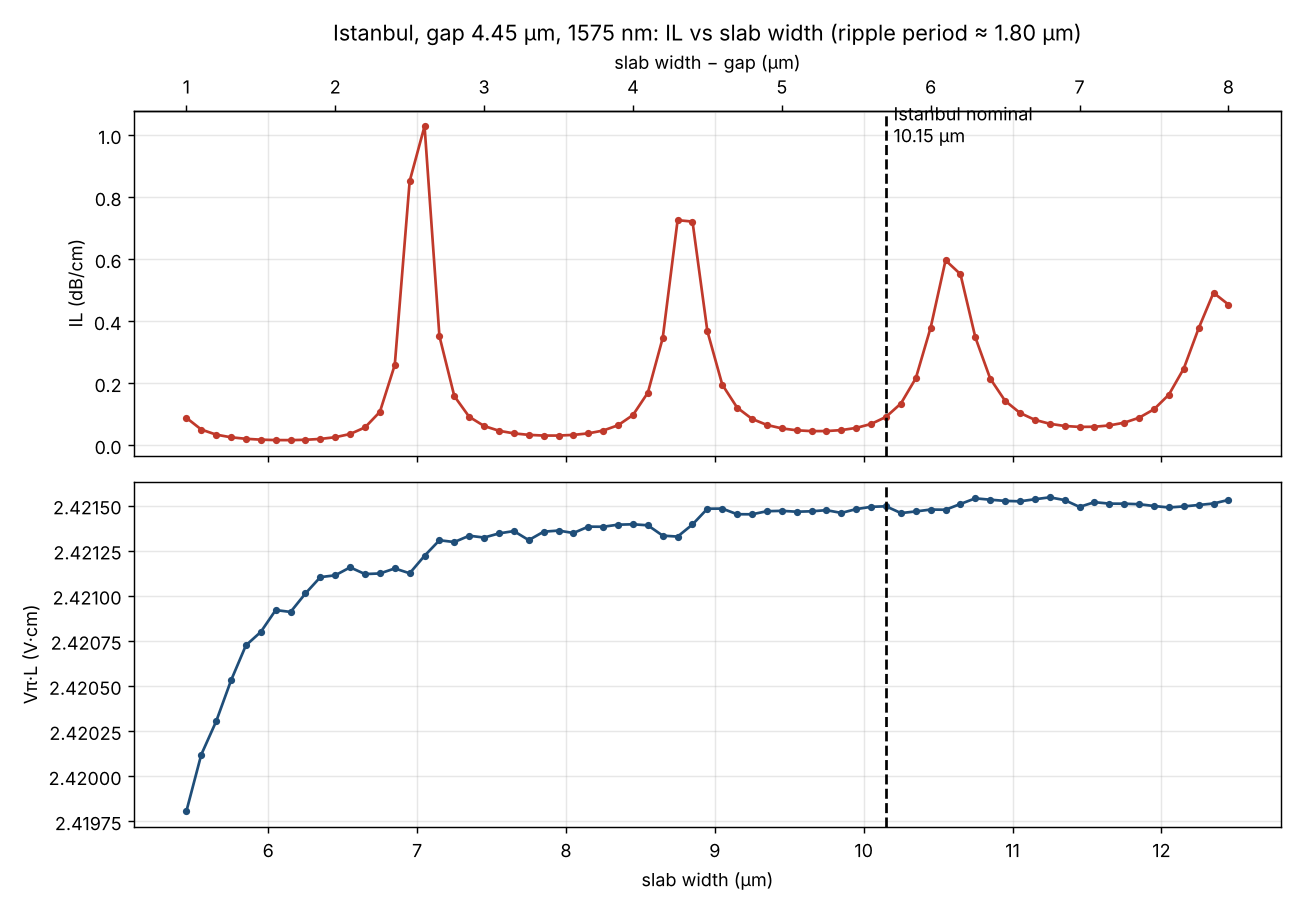
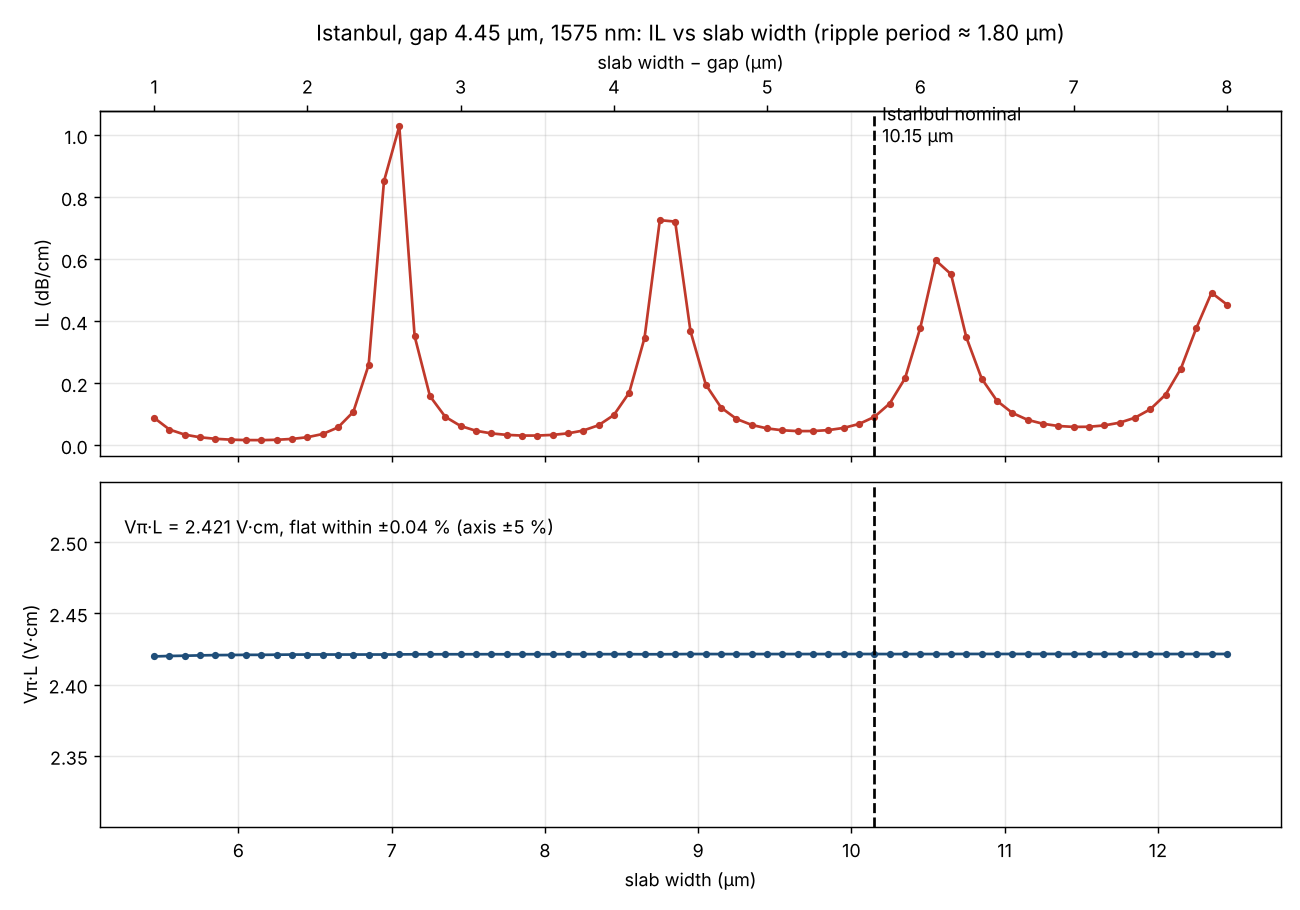
Istanbul plot: Vpi*L on a +/-5% axis
Claude-Session: https://claude.ai/code/session_01EHQDy7yrZwCZyHELu6KFb3

diff --git a/results/istanbul/analysis.py b/results/istanbul/analysis.py
@@ -11,7 +11,7 @@ F = np.abs(np.fft.rfft(d, 1024)); fr = np.fft.rfftfreq(1024, 0.1); P = 1 / fr[1:
 fig, (a, b) = plt.subplots(2, 1, figsize=(10, 7), sharex=True)
 a.plot(w, il, "o-", ms=3, c="#c0392b"); a.axvline(10.15, c="k", ls="--"); a.text(10.2, il.max()*0.95, "Istanbul nominal\n10.15 µm")
 a.set_ylabel("IL (dB/cm)"); a.set_title(f"Istanbul, gap 4.45 µm, 1575 nm: IL vs slab width (ripple period ≈ {P:.2f} µm)"); a.grid(alpha=.3)
-b.plot(w, v, "o-", ms=3, c="#1f4e79"); b.axvline(10.15, c="k", ls="--"); b.set_ylabel("Vπ·L (V·cm)"); b.set_xlabel("slab width (µm)"); b.grid(alpha=.3)
+b.plot(w, v, "o-", ms=3, c="#1f4e79"); b.axvline(10.15, c="k", ls="--"); b.set_ylim(v.mean()*0.95, v.mean()*1.05); b.text(0.02, 0.85, f"Vπ·L = {v.mean():.3f} V·cm, flat within ±{(v.max()-v.min())/2/v.mean()*100:.2f} % (axis ±5 %)", transform=b.transAxes); b.set_ylabel("Vπ·L (V·cm)"); b.set_xlabel("slab width (µm)"); b.grid(alpha=.3)
 sec = a.secondary_xaxis("top", functions=(lambda x: x - GAP, lambda x: x + GAP)); sec.set_xlabel("slab width − gap (µm)")
 plt.tight_layout(); plt.savefig("istanbul_IL_VpiL_vs_slab_w.png", dpi=130)
 i0 = np.argmin(abs(w - 10.15))
